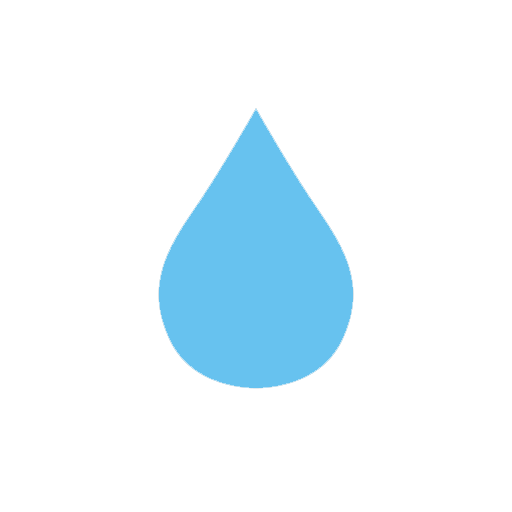
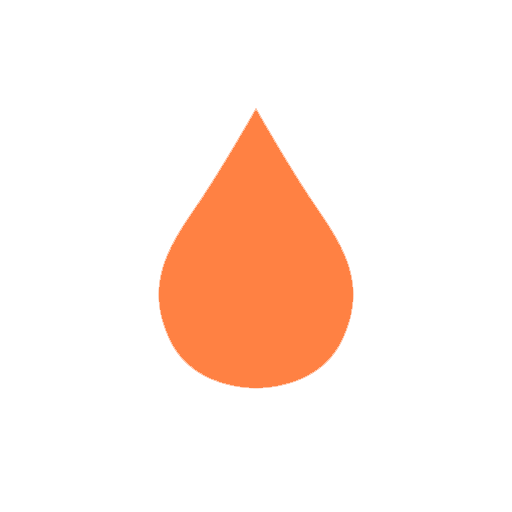
correction couleur

Changed region(s): [[0.2812, 0.2188, 0.7188, 0.7812]]

diff --git a/public/css/options.css b/public/css/options.css
@@ -41,7 +41,11 @@ html body .container header .title .image img {
 }
 html body .container header .title h3 {
   font-size: 25px;
-  color: rgb(53, 53, 53);
+  color: rgb(77, 77, 77);
+}
+html body .container header .title h3 span{
+  font-size: 25px;
+  color: rgb(255, 136, 0);
 }
 html body .container header .mood {
   height: 2em;
@@ -114,7 +118,7 @@ html body .container .content .options a .card .img {
   border-radius: 50%;
   height: 1.8em;
   width: 1.8em;
-  background-color: rgb(0, 195, 255);
+  background-color: rgb(255, 136, 0);
   display: flex;
   align-items: center;
   justify-content: center;
@@ -169,6 +173,7 @@ html .dark-mode .container .form-container .div-form form label {
 html .dark-mode .container .form-container .div-form form input, html .dark-mode .container .form-container .div-form form select {
   background-color: black;
   border-color: #383838;
+  color: rgb(255, 255, 255);
 }
 html .dark-mode .container .form-container .div-form form select {
   background-color: #272727;

diff --git a/public/css/forms.css b/public/css/forms.css
@@ -44,7 +44,7 @@ html body .container-form .aside-barre a {
   border-radius: 5px;
 }
 html body .container-form .aside-barre a:hover {
-  background-color: rgb(0, 117, 153);
+  background-color:  rgb(255, 136, 0);
 }
 html body .container-form .aside-barre a:hover h4 {
   color: white;
@@ -120,11 +120,11 @@ html body .container-form .form-container .div-form form select {
 }
 
 html body .container-form .form-container .div-form form input:focus {
-  border-color: rgb(1, 129, 168);
+  border-color:  rgb(255, 136, 0);
 }
 html body .container-form .form-container .div-form form input[type=submit] {
   border: none;
-  background-color: rgb(0, 195, 255);
+  background-color:  rgb(255, 136, 0);
   color: white;
   cursor: pointer;
 }

diff --git a/resources/views/Gerants/taches.blade.php b/resources/views/Gerants/taches.blade.php
@@ -16,7 +16,7 @@
                 <div class="image">
                     <img src="{{ asset('img/petrole.png') }}">
                 </div>
-                <h3>PetroApp</h3>
+                <h3>Petro<span>App</span></h3>
             </div>
             <div class="mood">
                 <img src="{{ asset('img/mode-nuit.png') }}">
@@ -28,7 +28,7 @@
             <div class="welcome">
                 <h4>Hello, Mr
                 @auth  
-                <span><Strong>{{\Illuminate\Support\Facades\Auth::user()->name}}</span>
+                <span><Strong>{{\Illuminate\Support\Facades\Auth::user()->name}}</span></Strong>
                 @endauth
                 </h4>
                 <p>Choisissez l'action que vous voulez faire<p>

diff --git a/resources/views/Pompistes/create.blade.php b/resources/views/Pompistes/create.blade.php
@@ -22,8 +22,7 @@
                 <div class="image">
                     <img src="{{ asset('img/petrole.png') }}">
                 </div>
-
-                <h3>PetroApp</h3>
+                <h3>Petro<span>App</span></h3>
             </div>
             <div class="mood">
                 <img src="{{ asset('img/mode-nuit.png') }}">

diff --git a/resources/views/Clients/create.blade.php b/resources/views/Clients/create.blade.php
@@ -23,7 +23,7 @@
                     <img src="{{ asset('img/petrole.png') }}">
                 </div>
 
-                <h3>PetroApp</h3>
+                <h3>Petro<span>App</span></h3>
             </div>
             <div class="mood">
                 <img src="{{ asset('img/mode-nuit.png') }}">

diff --git a/resources/views/Fournisseurs/create.blade.php b/resources/views/Fournisseurs/create.blade.php
@@ -20,7 +20,7 @@
                     <img src="{{ asset('img/petrole.png') }}">
                 </div>
 
-                <h3>PetroApp</h3>
+                <h3>Petro<span>App</span></h3>
             </div>
             <div class="mood">
                 <img src="{{ asset('img/mode-nuit.png') }}">

diff --git a/resources/views/Operations/create.blade.php b/resources/views/Operations/create.blade.php
@@ -24,7 +24,7 @@
                     <img src="{{ asset('img/petrole.png') }}">
                 </div>
 
-                <h3>PetroApp</h3>
+                <h3>Petro<span>App</span></h3>
             </div>
             <div class="mood">
                 <img src="{{ asset('img/mode-nuit.png') }}">
